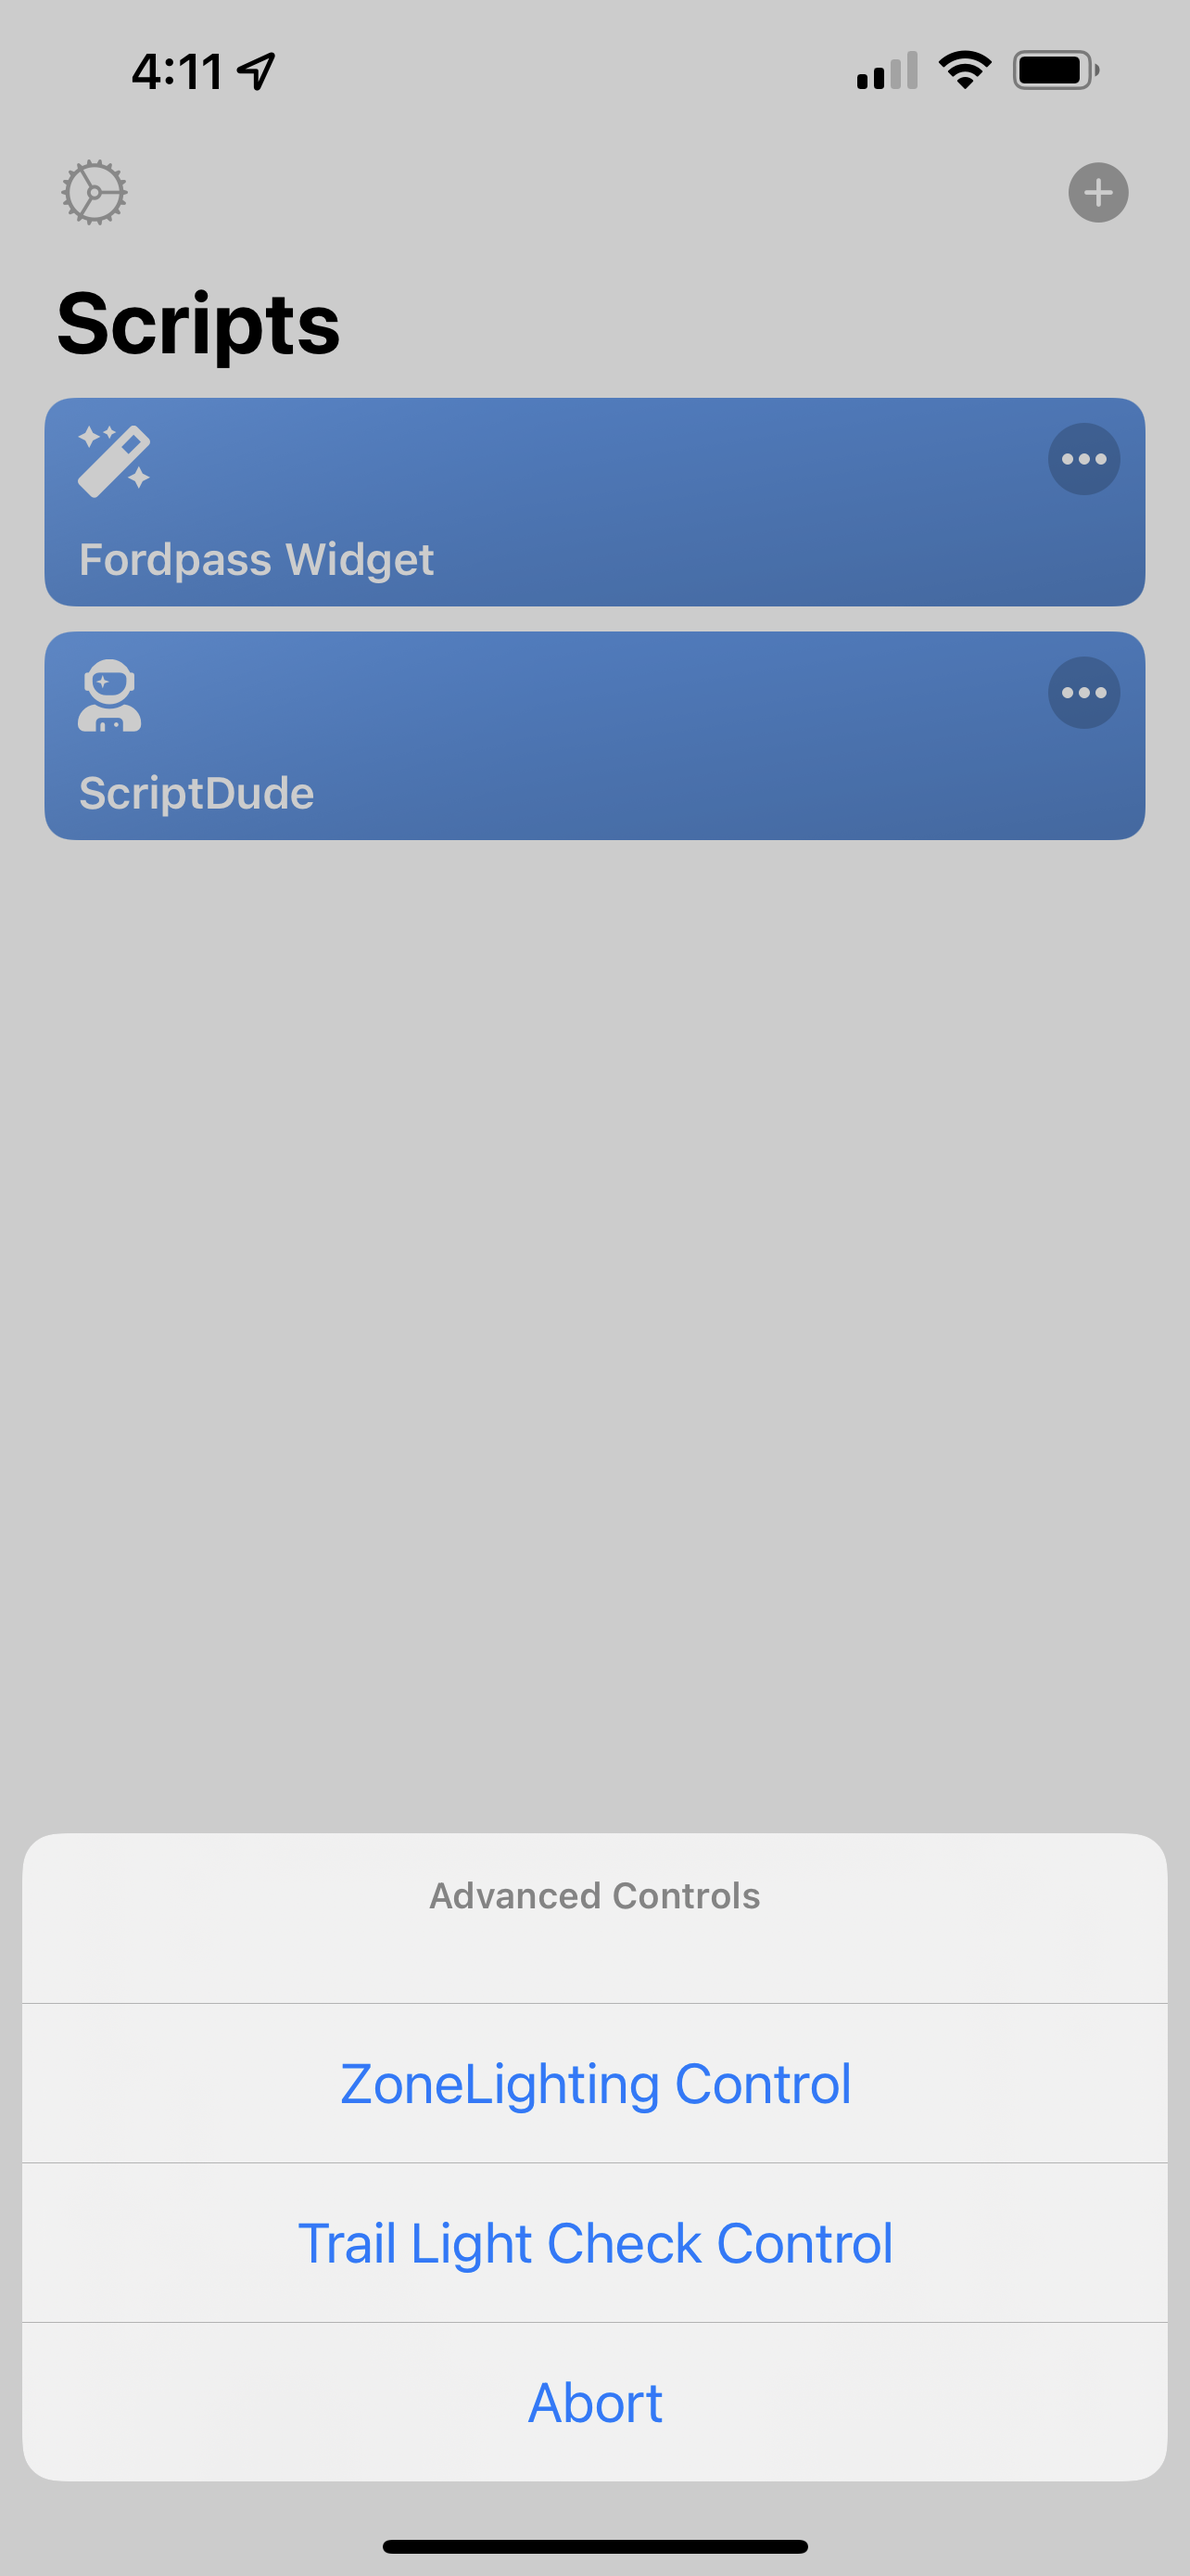
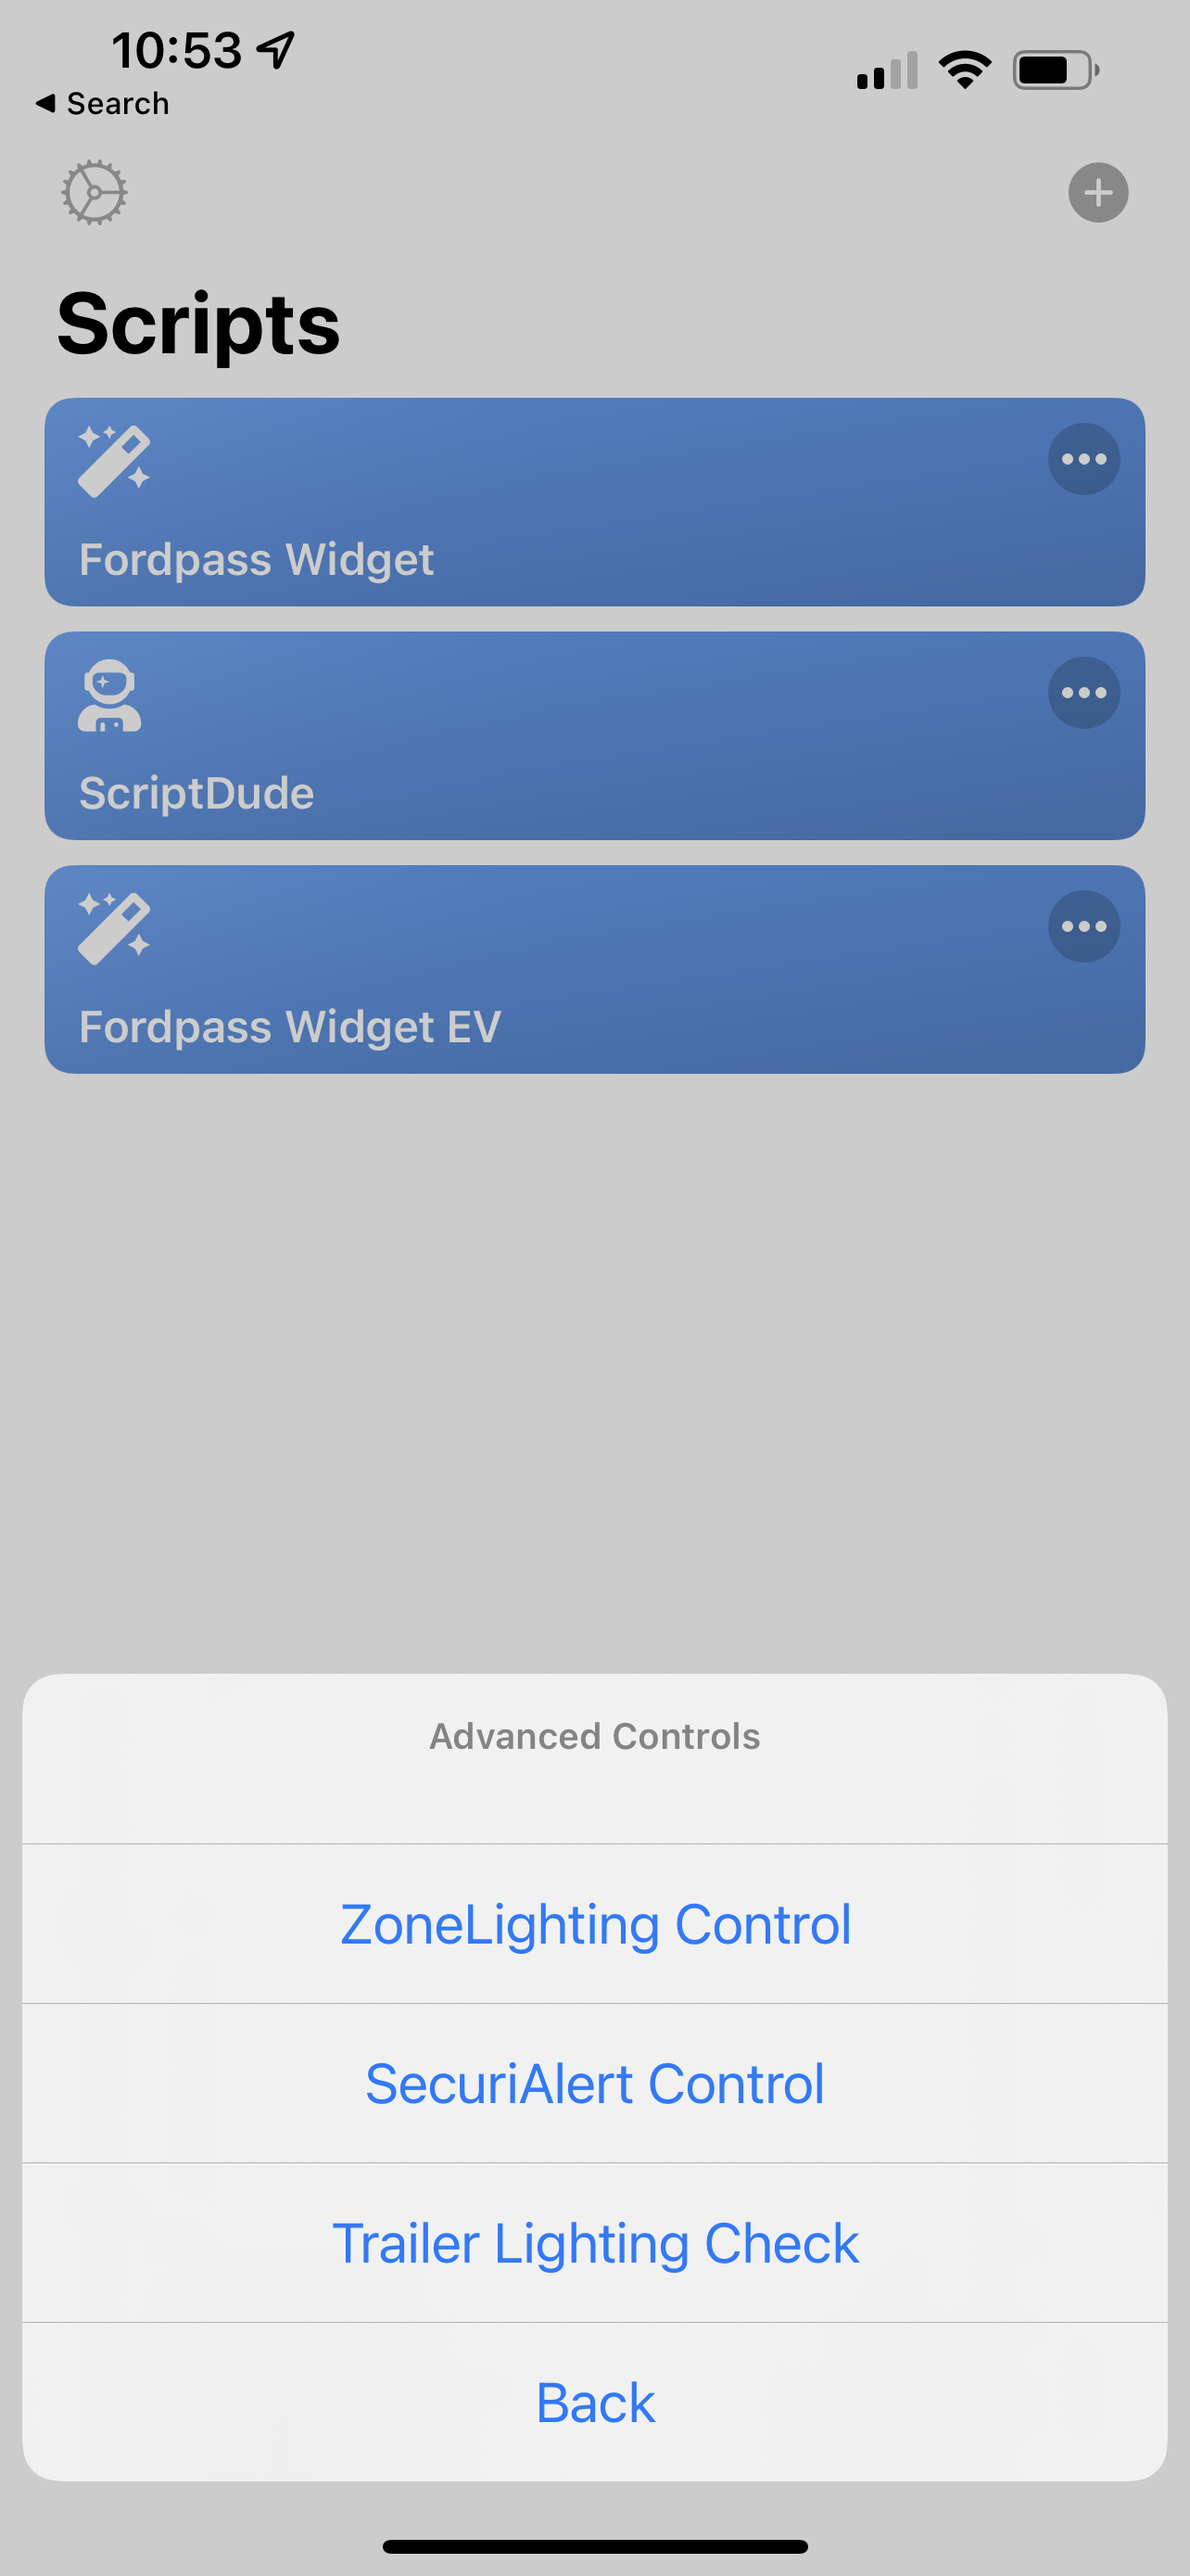
updated images and readme

diff --git a/README.md b/README.md
@@ -6,15 +6,16 @@
 
 ![GitHub tag (latest SemVer)](https://img.shields.io/github/v/tag/tonesto7/fordpass-scriptable?label=Latest%20Script%20Version&sort=semver&style=for-the-badge)
 
-<img src="images/widget_screenshot.png" alt="Widget example" width="300" />
+<img src="images/widget_light_example.png" alt="Widget light example" width="300" />
+<img src="images/widget_dark_example.png" alt="Widget dark example" width="300" />
 
 ## Intro
 
 This widget is based off the work of [](https://github.com/dschablowsky/FordPassWidget) by David Schablowsky.
-It's been significantly rewritten to add a new design, features, and much easier to maintain and improve.
-It no longer requires editing the script file to configure options and login information.
-This widget fetches information about your ford vehicle and displays them in a simple interactive widget.
-The widget has been tested on my 2021 F-150 and another users 2020 Explorer, but should work on a majority of FordPass enabled devices (It doesn't support all electric features yet).
+It has been rewritten to add a new design, support infinitly more features, and will be much easier to maintain and improve over time.
+This version no longer requires you to edit the script file to configure login information and preferences.
+The widget now fetches all information required about your ford vehicle and displays them in a simple interactive widget.
+The widget has been tested on many many ford models, and should work on any vehicle that's supported in the FordPass mobile app.
 
 ## Requirements
 
@@ -24,33 +25,47 @@ The widget has been tested on my 2021 F-150 and another users 2020 Explorer, but
 
 ## Features
 
-- Will automatically fetch data from server (default every 5 minutes)
+- Will automatically fetch data from server (default is every 3-5 minutes)
 - Tapping on the Vehicle location in the widget will open Apple Maps (or Google Maps) pin the position of your vehicle.
-- Tapping anywhere in the widget will open the scriptable app and provide a menu of quick actions for your vehicle
-- Automatically pulls in you vehicle image and displays it in the widget.
+- Tapping anywhere in the widget will open the scriptable app and provide a menu of quick actions support by your vehicles capabilities.
+- Automatically pulls in the following info about you and your vehicle:
+  - Vehicles actual image
+  - Distance and Pressure units defined in the FordPass app.
+
+- Debug Menu to view advanced information about your vehicle data:
+  - View the Hidden OTA data embedded in Ford.com vehicle dashboard.
+  - View all data pulled into the widget using various ford endpoints.
   
-  
+## Screenshots
+
   <img src="images/main_menu_example.png" alt="Menu example" width="300" />
-   <img src="images/advanced_control_menu.png" alt="Menu example" width="300" />
+  <img src="images/advanced_control_menu.png" alt="Advanced Control example" width="300" />
   <img src="images/setting_menu.png" alt="Menu example" width="300" />
- 
+  <img src="images/debug_menu.png" alt="Debug Menu example" width="300" />
+
+## Known Issues & Limitations
+
+- The widget offers limited controls for electric vehicles at the moment (I need to get the commands from the FordPass app mapped out.)
+- Sometimes the fuel and oil data will be missing or incorrect. This is due to the fact that the fuel and oil data is not always available in the Fordpass API when the vehicle is off.
+
 ## Community Help
-* Discord Link: https://discord.gg/VPw3zw9v
- 
-  
+
+ Discord Link: <https://discord.gg/VPw3zw9v>
+
 ## Todo
 
-- Add customizable refresh intervals in the settings
-- Get SecuriAlert control working.
+- Get small, large, and extra large layouts working.
 - Widget code updater mechanism (I don't have a way to do this yet)
 
 ## Installation
 
 ### Automated Install
 
-- Coming Soon
+ - COMING SOON
+<!-- [![Download with ScriptDude](https://scriptdu.de/download.svg)](https://scriptdu.de/?name=Fordpass+Widget&source=https%3A%2F%2Fgist.githubusercontent.com%2Ftonesto7%2F942bda23e3228f16f324bf4e68fec6d2%2Fraw%2F77cf729f1c65cdbc729c95b97db1f78e18e9b395%2FFordpass%252520Widget.js&docs=https%3A%2F%2Fgithub.com%2Ftonesto7%2Ffordpass-scriptable%23readme#generator) -->
 
 ### Manual Install
+
 - Browse here to [view the latest code](Fordpass%20Widget.js)
 - Press "raw" in the upper left corner and copy everything after opening the [Fordpass Widget.js](Fordpass%20Widget.js) script
 - Open Scriptable App
@@ -62,11 +77,7 @@ The widget has been tested on my 2021 F-150 and another users 2020 Explorer, but
 - Press "+" on the upper left corner and choose "Scriptable" as a medium sized widget
 - Still in "wiggle mode" tap on the newly created widget and choose the FordPass Widget from the list under "Script"
 
-For easy maintenance of the script I recommend just saving the Fordpass Widget.js file directly to the Scriptable folded inside the iCloud Drive it will make it easier to update it without having to copy and paste the code again. Any changes are reflected in the scriptable app.
-
-## Notes
- 
-Sometimes the fuel data will be missing or incorrect. This is due to the fact that the fuel data is not always available in the Fordpass API.
+For easy maintenance of the script I recommend just saving the Fordpass Widget.js file directly to the Scriptable folder inside the iCloud Drive it will make it easier to update it without having to copy and paste the code again. Any changes are reflected in the scriptable app.
 
 ## Troubleshooting and Debugging
 
